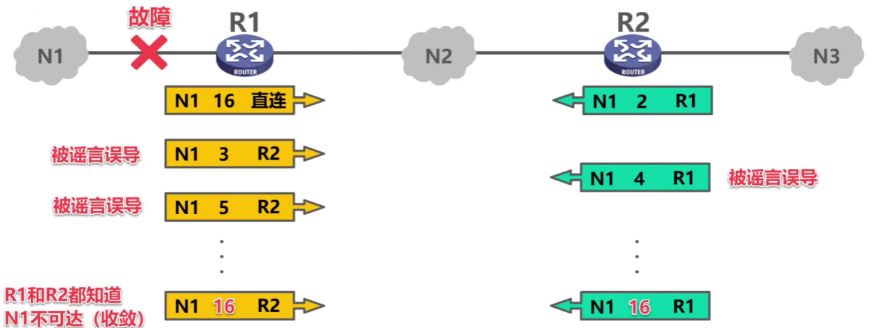
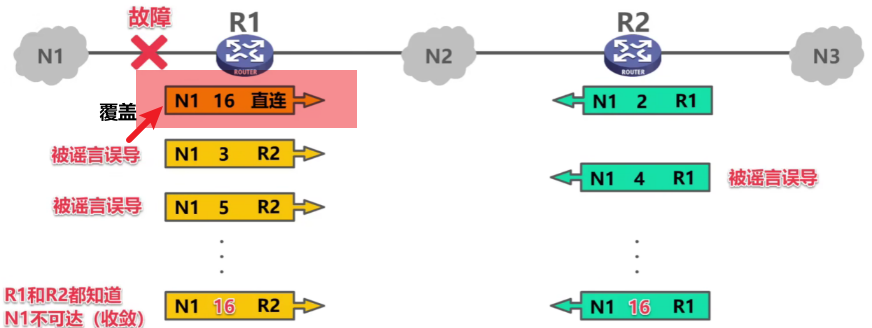
10/30/1

Changed region(s): [[0.0929, 0.2134, 0.4335, 0.4268]]

diff --git a/_posts/2022-10-29-network-ch4-2.md b/_posts/2022-10-29-network-ch4-2.md
@@ -8,7 +8,7 @@ date: 2022-10-29 20:21 +0800
 toc: true
 ---
 
-# 网络层 (Data link layer) - Part2
+# 网络层 (Network layer) - Part2
 
 ## 6. 路由选择协议 (Routing Protocol)
 
@@ -82,7 +82,7 @@ toc: true
 --------------------
 ## - 6.2 路由信息协议 RIP 的基本工作原理
 
-路由信息协议 RIP (Routing Information Protocol) 是内部网关协议 IGP 中**最先**得到广泛使用的协议之一。
+**路由信息协议 RIP** (Routing Information Protocol) 是内部网关协议 IGP 中**最先**得到广泛使用的协议之一。
 
 - RIP 要求自治系统 AS 内的每一个路由都要维护从它自己到 AS 内其他每一个网络的距离记录，这时一组距离，称为 **距离向量 D-V (DIstance-Vector)**。
 - ![rip01.png](/images/net/rip01.png "rip协议")
@@ -134,8 +134,8 @@ toc: true
     - ③ 到达目的网络，且**不同的**下一跳，新路由路线更优，更新；
     - ④ 到达目的网络，且**不同的**下一跳，新老路由路线相等，进行等价负载均衡；
     - 【不更新】：到达目的网络，**不同的**下一跳，新路由路线更差；
+    - 【注意】：**大于15不可达**！
     - ![rip08.png](/images/net/rip08.png "各种情况")
-    - 【注意】：大于15不可达！
 
 ### RIP 存在的问题
 
@@ -155,7 +155,7 @@ toc: true
 
 在此过程中，R1/R2 出现了路由环路，时间长达数分钟，这是**距离向量算法的一个固有问题**。可以采取多种措施**减少**出现该问题的概率或减小该问题带来的危害。
 - 限制最大距离为 15
-- 路由表有变化时吗，立即发送更新报文（即 **触发更新**），而不仅是周期性发送；
+- 路由表一有变化，就**立即发送**更新报文（即 **触发更新**），而不仅是周期性发送；
 - 让路由器记录收到某特定路由信息的接口，而不让同一路由信息再通过此接口反方向发送（即 **水平分割**）
 
 但是并**不能彻底避免**路由环路问题，这是距离向量算法的本质导致的。这里只是RIP最基本的工作原理，并不是全部细节，如 RIP 有关报文的格式，定时时长等。基于 IPv4 的 RIP 有两个版本，还有基于 IPv6 的 RIPng 等。

diff --git a/_posts/2022-10-30-network-ch4-pro copy.md b/_posts/2022-10-30-network-ch4-pro copy.md
@@ -1,0 +1,30 @@
+---
+layout: post
+title: "计网 Ch4：网络层（纯享版）"
+author: LJC
+tags:
+- network
+date: 2022-10-30 14:00 +0800
+toc: true
+---
+
+# 四、网络层 (Network layer)
+
+网络层的三个任务：
+- 向运输层提供怎样的服务？**可靠传输：虚电路/ 不可靠传输：IP数据报** （但不负责实现可靠传输，这是链路层的活）
+
+- **网络层寻址问题**：IPv4 IPv6 地址；
+
+- **路由选择问题【篇幅最多】：配置路由，路由选择协议等**
+
+    - 人工配置路由，告诉路由往哪转发（小规模可以，大网络配不过来也不好维护）
+    - 部署路由选择协议，根据互联网思想分成内部和外部网关协议
+    - 内部网关协议：
+        - RIP 协议 —— **距离向量**：两部分
+            - 距离：路由表里的**跳数**表示；
+            - 向量：路由表里的**下一跳**表示；
+            - 建立过程：
+                - ① 初始化（收敛）
+                - ② 给**相邻路由**发送自己的路由表
+                - ③ 根据【其他路由表 和 更新规则】，更新路由表
+            - 存在固有问题：坏消息传得慢（被覆盖了）

diff --git a/_posts/2022-10-27-network-ch4-1.md b/_posts/2022-10-27-network-ch4-1.md
@@ -8,7 +8,7 @@ date: 2022-10-27 20:50 +0800
 toc: true
 ---
 
-# 网络层 (Data link layer) - Part1
+# 网络层 (Network layer) - Part1
 
 ## 1. 网络层概述
 
